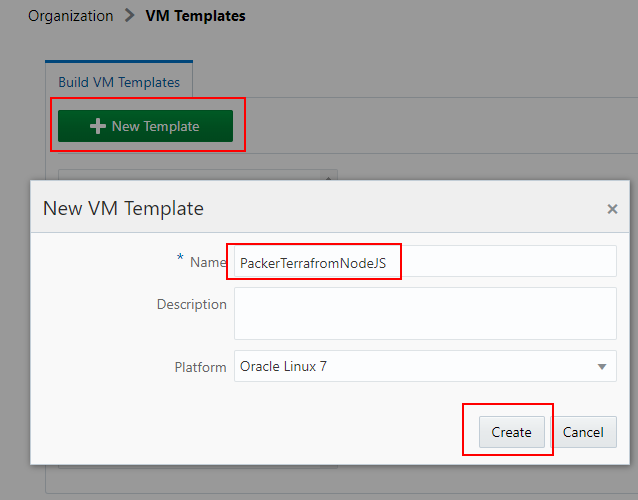
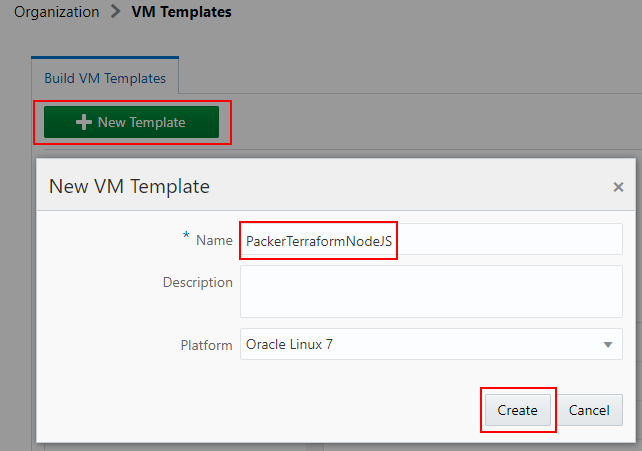
updates

diff --git a/workshops/devcs-mysql/Lab100.md b/workshops/devcs-mysql/Lab100.md
@@ -475,306 +475,61 @@ In this step you will define a Packer build using the Software Template you crea
 MYSQL-Packer
 ```
 
-- for the Job Name, select the PackerTerraform
+- ...for the Job Name, select the **PackerTerraformNodeJS** template and click **Create Job**.
 
    ![](images/100/59.PNG)
 
+-- Under the Source Control tab select **Git** and then choose the **MYSQL-PackerTerraform.git** repository.
 
+   ![](images/100/60.PNG)
 
+   ![](images/100/61.PNG)
 
+- Select the **Builders** tab and choose **Unix Shell Builder**.
 
+   ![](images/100/62.PNG)
 
-
-
-
-
-
-
-
-
-
-
-
-
-
-
-
-
-
-
-A security list provides a virtual firewall for an instance, with ingress and egress rules that specify the types of traffic allowed in and out. Each security list is enforced at the instance level. However, you configure your security lists at the subnet level, which means that all instances in a given subnet are subject to the same set of rules. The security lists apply to a given instance whether it's talking with another instance in the VCN or a host outside the VCN.
-
-- Click on the **DockerVCN** and then **Security Lists**
-
-    ![](images/050Linux/16.PNG)
-
-    ![](images/050Linux/17.PNG)
-
-- Click on **Default Security List for DockerVCN**
-
-    ![](images/050Linux/18.PNG)
-
-For the purposes of the upcoming Docker deployments we need to add five Ingress Rules that allow access from the Internet to ports 9080, 8002, 18002, 5600, and 8085. In a production environment only the UI port (8085) would typically be opened for access but the labs will have us test various other Application and Oracle centric functionality as we go, thus the need to open other ports.
-
-- Click **Edit All Rules** and then select **+Add Rule**
-
-    ![](images/050Linux/19.PNG)
-
-    ![](images/050Linux/20.PNG)
-
-- **Enter the following**
-
-**NOTE:** Leave all other values at default
+- **Cut and Patse** the following into the Script section:
 
 ```
-Source CIDR: 0.0.0.0/0
-Destination Port Range: 8085 
+packer --version
+packer build build.json | tee output.txt
+ls -l
+cat output.txt
+set OUT = `tail output.txt | grep OCID | cut -d ":" -f 4 | cut -d ")" -f 1 | tr -d '[:space:]' | tee image_OCID`
 ```
 
-- **Add four more Ingress Rules**
+   ![](images/100/63.PNG)
+
+The script fires off a Packer build based on the build.json contents and then places the OCID of the new Custom Image into an environment variable which can be referenced from ant other builds.
+
+- Select the **Post Build** tab and add the **Artifact Archiver** Post Build Action. Enter the following into the **Files to Archive** field:
 
 ```
-Source CIDR: 0.0.0.0/0
-Destination Port Range: 9080 
+image_OCID
 ```
 
-```
-Source CIDR: 0.0.0.0/0
-Destination Port Range: 8002 
-```
+   ![](images/100/65.PNG)
 
-```
-Source CIDR: 0.0.0.0/0
-Destination Port Range: 18002 
-```
+- Click **Save**.
 
-```
-Source CIDR: 0.0.0.0/0
-Destination Port Range: 5600 
-```
+- Click the **Build Now** button to queue up the Packer build for execution.
 
-- When completed your rules should look like:
+   ![](images/100/66.PNG)
 
-    ![](images/050Linux/21.PNG)
+- The screen will update to show the build is queued.
 
-- Click the **Save Security List Rules** button
+   ![](images/100/67.PNG)
 
-    ![](images/050Linux/22.PNG)
 
-- Your Ingress Rules should look like:
 
-    ![](images/050Linux/23.PNG)
 
-### **STEP 6**: Create SSH Key Pair (Linux or Mac client)
 
-Before we create the Compute instance that will contian Docker and application depoyments we need to create an ssh key pair so we'll be able to securly connect to the instance and do the Docker installation, etc.
 
-**NOTE:** `This step focuses on key pair generation for Linux or Mac based terminal sessions. If your going to run your terminal sessions from a Windows client then skip to STEP 7`
 
-- In a `Linux/Mac` client terminal window **Type** the following (**You don't have to worry about any passphrases unless you want to enter one**)
 
-```
-ssh-keygen -b 2048 -t rsa -f dockerkey
-```
 
-- Your key pair is now in the current directory
 
-    ![](images/050Linux/24.PNG)
-    
-- **NOTE for Linux and Mac Clients:** Just open up the pubic key file in an editor (vi) and select / copy the entire contents to be used in Step 8.   
 
-    ![](images/050Linux/25-4.PNG)
-
-### **STEP 7**: Create SSH Key Pair (Windows client)
-
-For Windows clients this example will show the use of PuttyGen to generate the keypair. [Putty and PuttyGen](https://www.chiark.greenend.org.uk/~sgtatham/putty/latest.html) are available for download.
-
-- Run **PuttyGen** and click **Generate**
-
-    ![](images/050Linux/25.PNG)
-
-- Once the generation process completes click the **Save Private Key** button and save to a directory of your choice.
-
-- If prompted to save without a passphrase click yes. 
-
-    ![](images/050Linux/25a.png)
-
-**NOTE:** `Do not save the public key as the format is not compatable with Linux openSSH.
-
-- Instead, **Select the entire Public Key in the display and right-click copy**. `This content will be pasted into the Create Instance dialog in Step 8.`
-
-    ![](images/050Linux/25-2.PNG)
-
-### **STEP 8**: Create a Compute Instance
-
-You will now create a Linux based Compute instance using the public key you just generated.
-
-- Go back to your OCI console and from the hamburger menu in the upper left hand corner select **Compute-->Instances**
-
-    ![](images/050Linux/26.PNG)
-
--Click **Create Instance**
-
-   ![](images/050Linux/27.PNG)
-
-- **Select or Type** the following in the `Instance` section of the dialog:
-
-```
-Name: Docker
-Availability Domain: xxx-AD-1
-Boot Volume: Oracle-Provided OS Image
-Image Operating System: Oracle Linux 7.5
-Shape Type: Virtual Machine
-Shape: VM.Standard2.1
-SSH Keys: Choose SSH Key Files
-```
-
-- You will Browse and select your PUBLIC SSH Key
-**NOTE:** You will paste the public key you copied in Step 7 into the SSH KEY field by selecting the "Paste SSH Keys" radio button. `The public key should all be on ONE LINE` 
-
-   ![](images/050Linux/28.PNG)
-
-- In the Network Section **Select** the following:
-
-```
-Virtual Cloud Network: DockerVCN
-```
-
-   ![](images/050Linux/29.PNG)
-
-- Click **Create Instance**
-
-After a few minutes you should see a running instance with a Public IP Address.
-
-- `Make a note of the IP Address as we will be using this in the next step.`
-
-   ![](images/050Linux/30.PNG)
-
-
-### **STEP 9**: SSH into the Instance and install Docker
-
-The last set up piece will be to SSH into the Compute image and install Docker and GIT.
-
-- For a Windows client session bring up Putty, select the **Session** section and type in the IP address:
-
-   ![](images/050Linux/31.PNG)
-
-- Select the **Data** section and enter the following as the username:
-
-```
-opc
-```
-
-- Screenshot:
-
-  ![](images/050Linux/32.PNG)
-
-- Select **SSH-->Auth** and browse to the Private Key you created back in Step 7:
-
-   ![](images/050Linux/33.PNG) 
-
-- Click the **Open** button. You will presented the first time with am alert message. Click **Yes**
-
-   ![](images/050Linux/35.PNG)
-
-- You will logged into the Compute image:
-
-   ![](images/050Linux/36.PNG)
-
-- **NOTE:** For Linux and Mac client sessions "cd" into the directory where your key pair is. Make sure the dockerkey file has the permissions of "600" (chmod 600 dockerkey) and ssh into the compute instance `substituting your IP address`.
-
-Example:
-
-```
-cd <directory of your key pair>
-chmod 600 dockerkey
-ssh -i ./dockerkey opc@129.213.119.105
-```
-
-- Linux / Mac screenshot:
-
-  ![](images/050Linux/37.PNG)
-
-### **STEP 10**: Install and configure Docker and GIT
-
-Docker and GIT are required for the subsuquent labs. You will install the Docker engine, enable it to start on re-boot, grant docker privledges to the `opc` user and finally install GIT.
-
-- **Type** the following:
-
-```
-sudo -s
-yum install docker-engine
-usermod -aG docker opc
-systemctl enable docker
-systemctl start docker
-```
-
-- **NOTE:** During the `yum install docker-engine` command press `Y` is asked if installation is ok.
-
-- Screenshot at the end of the Docker installation:
-
-   ![](images/050Linux/38.PNG)
-
-   ![](images/050Linux/39.PNG)
-
-- **Type** the following:
-
-```
-yum install git
-```
-
-- Screenshot at the end of the GIT installation:
-
-   ![](images/050Linux/40.PNG)
-
-- **Type** the following to verify good installations:
-
-```
-su - opc
-docker version
-docker images
-git --version
-```
-
-   ![](images/050Linux/41.PNG)
-
-### **STEP 11**: Edit /etc/sysconfig/selinux
-
-Set the server to Permissive mode and also ensure that permissive mode survives re-boots by editing `/etc/sysconfig/selinux`
-
-- Using vi, change the SELINUX line to **permissive**. **Type** the following: (**NOTE**: You need to be the root user to edit this file)
-
-```
-sudo -s
-vi /etc/sysconfig/selinux
-```
-
-- **NOTE:** If new to vi, press the letter `i` to edit text. To save press Escape, the type `:wq!`.
-
-   ![](images/050Linux/42.png)
-
-- Save the file and exit out of vi
-
-- Now, **Type** the following:
-
-```
-setenforce 0
-sestatus
-```
-
-- Verify that your server is in permissive mode.
-
-   ![](images/050Linux/43.PNG)
-
-- **Type** the following to exit out of `root` and go back and verify that you're now the `opc` user:
-
-```
-exit
-whoami
-```
-
-   ![](images/050Linux/44.PNG)
-
-- You are ready to proceed to Lab 100
 
 **This completes the Set Up!**
